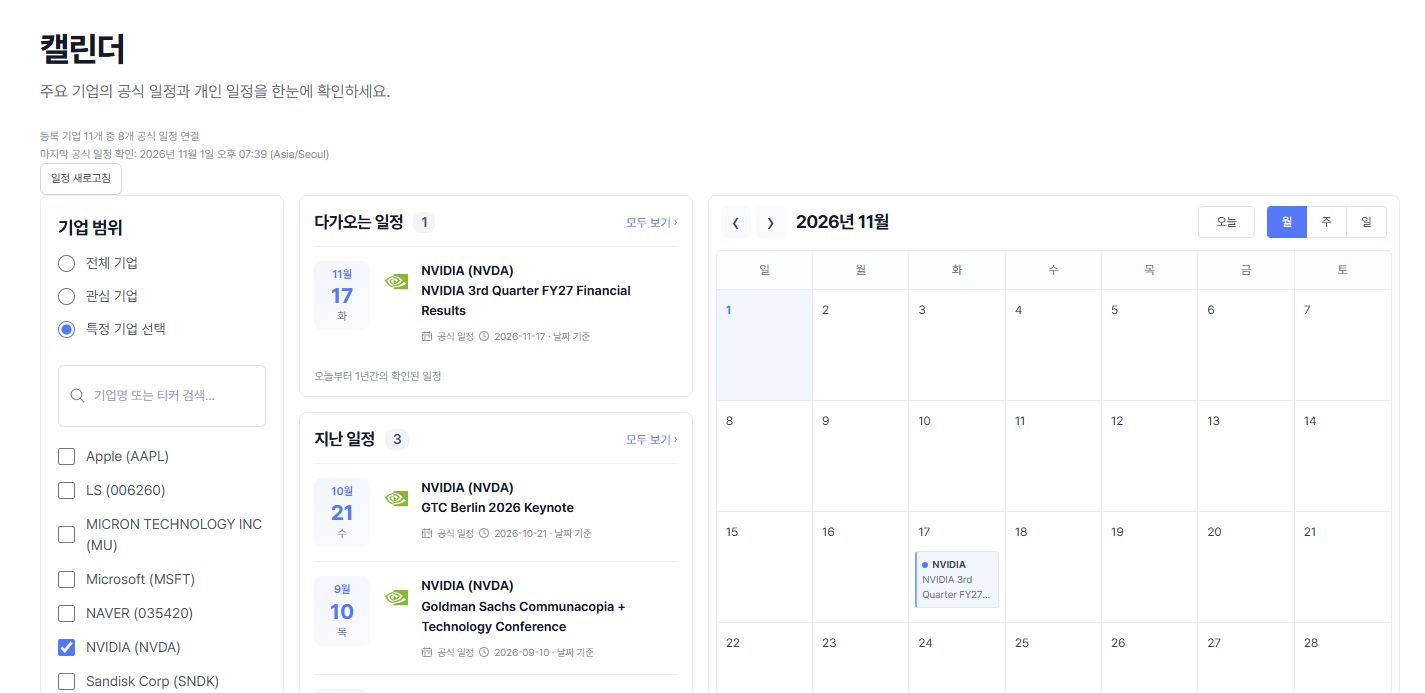
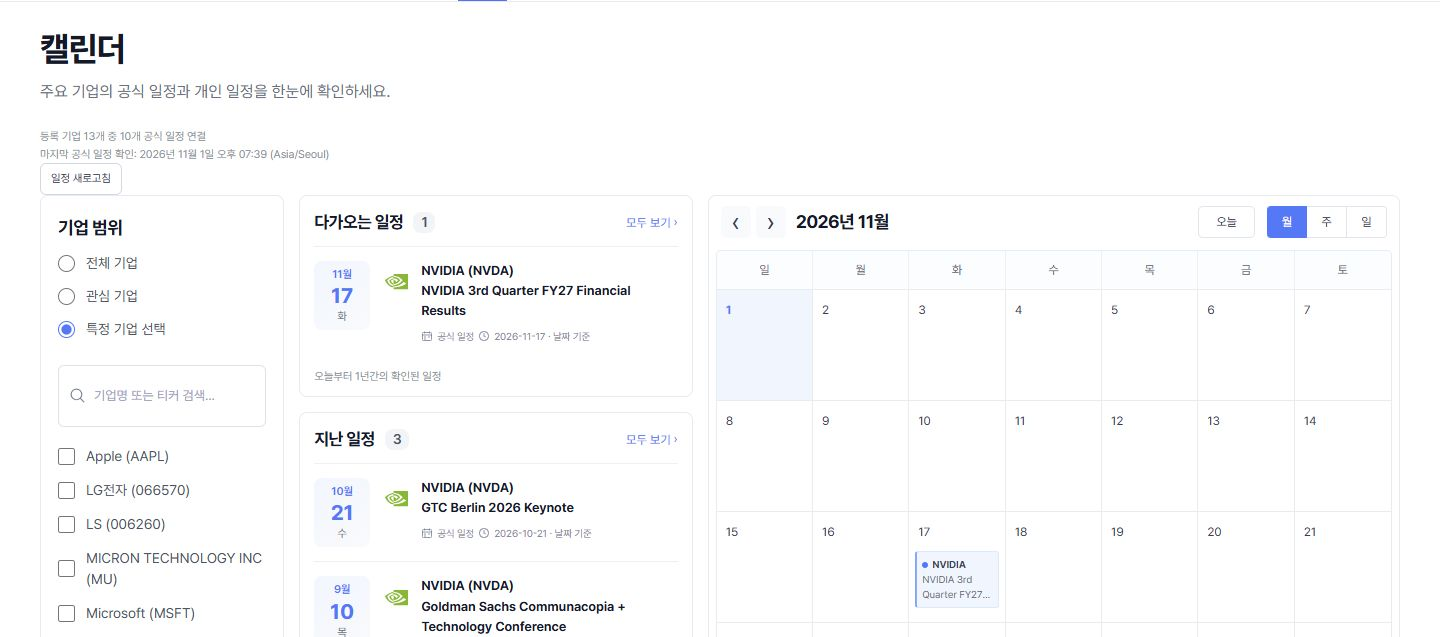
docs: record deployed calendar and Saved acceptance
Record the exact production release, four successful CI workflows, fresh 90-case browser run, automatic LG registration, correction provenance, Saved persistence and cleanup, and final live screenshots. Preserve explicit source coverage and operational limits. No application code changes.

diff --git a/docs/CALENDAR_AUTOMATION_AND_SAVED_2026-11-01.md b/docs/CALENDAR_AUTOMATION_AND_SAVED_2026-11-01.md
@@ -2,25 +2,36 @@
 
 ## Release state
 
-The web follow-up is live at **https://signalbrief.online** on commit
-`a28ca633990b2e6dcd3dbeb54b7080e0566ecdeb`. Vercel deployment
-`dpl_8iTtkirZK81iz1mrPci8vgHrUHVk` is **READY**. Its exact-commit CI and all
-90 browser scenarios passed. The earlier production baseline for the reproduced
-issues below was `85d3667a1bed15e71a534cf6161686d58419d7f5`.
+The final correction source is published as
+`1541494637d89b46e2b2c53b15186c0e51f3ec62`, tree
+`037126e89ec683718a0127bd181414a0f3d757f5`. All four required exact-source CI
+workflows completed successfully, and main was promoted from `a28ca633` to this
+commit. Vercel deployment `dpl_FxrMLugDeAVgk9s2rS5onQLt8Sd5` is **READY**, targets
+production, and serves **https://signalbrief.online**. Its metadata matches this
+commit and main. An independent public GET of
+https://signalbrief.online/api/release returned HTTP200 and the exact
+`1541494637d89b46e2b2c53b15186c0e51f3ec62` / `main` identity. Runtime promotion is
+complete. The preceding web release was `a28ca633990b2e6dcd3dbeb54b7080e0566ecdeb`;
+the earlier reproduction baseline below was
+`85d3667a1bed15e71a534cf6161686d58419d7f5`.
 
 The subsequent DART correction repair is active in **calendar Edge v4**, alongside
 **discovery Edge v6**. Migrations `20261101103903` (source onboarding) and
 `20261101111341` (correction lineage) are applied, and the collection worker is
-enabled. Actual Kakao and SK hynix correction collection has succeeded. At this
-reporting checkpoint the correction code is still uncommitted: its new exact
-source commit, CI and promotion are **PENDING**. They must not be confused with
-the already passed `a28ca633` web release gates.
+enabled. Actual Kakao and SK hynix correction collection has succeeded. Readiness
+and the production migration ledger have been verified. The queue checkpoint has
+seven idle sources and one failed source: Samsung, `no_confirmed_dates`, attempt3.
+That bounded source limitation is retained below; not every source is reported
+healthy.
 
 Final correction-phase local verification passed all eight stages: **660 backend
 tests, zero skips; 1,162 frontend tests in 97 files**. A fresh LG Electronics
 registration and its automatic collection acceptance also passed, and temporary
 Saved/follow test data has been removed. Production collection times below are
-stated in UTC.
+stated in UTC. The local full-gate artifact records completion at
+**2026-11-01 11:11:46.142039 UTC**. This report's final publication will be a
+documentation-only child of the source commit; a report commit is not represented
+as the deployed runtime commit.
 
 ## Reproduced production behavior
 
@@ -157,7 +168,21 @@ table and its save-cancel controls.
 | Independent correction SQL | 40 tests PASS | Real disposable PostgreSQL; stable IDs, source identity, archives, stale/forked/conflicting denial |
 | Combined calendar PostgreSQL after migration filename alignment | 116 tests PASS | Ledger-matching migration paths; no change to the applied SQL bytes |
 | Exact `a28ca633` CI and browser selection | PASS; 90/90 browser cases, 45 desktop and 45 mobile | Deployed web follow-up, before the later correction-source commit |
-| New correction source commit, its CI and promotion | PENDING | Not replaced by earlier CI results |
+| Exact `15414946` source CI and main promotion | PASS; all four required workflows terminal SUCCESS | Includes a new 90/90 browser run and 116-test calendar PostgreSQL job |
+| Vercel deployment for `15414946` | READY / production PASS | Production alias, metadata SHA/main and HTTP200 `/api/release` exact SHA/main independently verified |
+
+Exact final-source CI evidence:
+
+| Workflow | Run / job | Terminal result |
+|---|---|---|
+| Verification | [41302244390](https://github.com/JackRo682/SignalBrief/actions/runs/41302244390), web job [124835444392](https://github.com/JackRo682/SignalBrief/actions/runs/41302244390/job/124835444392) | SUCCESS; 90 browser cases passed in 4.9m; browser log timestamp 11:41:02.6922501 UTC, workflow completed 11:41:11 UTC |
+| Calendar | [41302244275](https://github.com/JackRo682/SignalBrief/actions/runs/41302244275), job [124835443991](https://github.com/JackRo682/SignalBrief/actions/runs/41302244275/job/124835443991) | SUCCESS; 116 passed, two warnings, 10.70s; log timestamp 11:32:09 UTC |
+| Collector | [41302244250](https://github.com/JackRo682/SignalBrief/actions/runs/41302244250) | SUCCESS |
+| Financial | [41302244287](https://github.com/JackRo682/SignalBrief/actions/runs/41302244287) | SUCCESS |
+
+The branch Production health run
+[41302276659](https://github.com/JackRo682/SignalBrief/actions/runs/41302276659)
+was skipped as expected. That skip is not counted as a successful required check.
 
 Earlier in this follow-up, the pre-correction full local gate passed 620 backend
 tests with zero skips and 1,143 frontend tests in 97 files; its six Deno entrypoints
@@ -227,15 +252,21 @@ empty account already owned saved items. The temporary NVIDIA follow was also
 removed: its company button returned to **팔로우**, and the original Following
 scope was restored to **1 upcoming / 4 past**.
 
+After cleanup, the actual empty Saved archive displayed **three real public
+analyses and three real public documents** in the separate discovery panel. These
+are suggestions with explicit Save actions, not pre-populated personal bookmarks.
+The final empty-archive screenshot records that usable first-save state.
+
 Screenshots captured by the production acceptance run:
 
 | File | SHA-256 |
 |---|---|
[5 lines of base64/hex data omitted]
 
-## Source coverage and remaining release work
+## Source coverage and operational limitations
 
 Reviewed US feeds are Microsoft, Micron and NVIDIA. **Apple, Tesla and SNDK do not
 have configured calendar feeds** in this release; their uncovered state is explicit.
@@ -262,9 +293,26 @@ was introduced. Existing findings remain: security INFO `no-policy`27, WARN
 `FK`32 / `unused-index`20 and WARN `multiple-permissive`16. This comparison does
 not claim a clean security report or resolution of those pre-existing findings.
 
-The **new correction-source commit, exact-commit CI and promotion remain PENDING**
-at this checkpoint. Fresh-company acceptance, screenshot evidence and test-data
-cleanup are complete.
+Relevant remediation references are Supabase's
+[database advisor guide](https://supabase.com/docs/guides/database/database-linter)
+and [password-strength and leaked-password protection guide](https://supabase.com/docs/guides/auth/password-security#password-strength-and-leaked-password-protection).
+They are follow-up references, not a claim that policies, permissions, indexes or
+password-protection settings were changed by this release.
+
+The source commit, exact-source CI, main promotion, Vercel READY and production
+release response are verified. Fresh-company acceptance and test-data cleanup are
+complete. A fresh Calendar navigation after the final production release again
+showed All **4 upcoming / 27 past**, then Selected NVIDIA **1 upcoming / 3 past**
+and its Nov17 month-grid entry, with coverage **13 registered / 10 connected**.
+The NVIDIA screenshot above was replaced with that final-deployment capture. The
+final report publication is a documentation-only child of `15414946`; it does not
+change the deployed runtime identity.
+
+The release owner also queried error/fatal runtime logs for
+`dpl_FxrMLugDeAVgk9s2rS5onQLt8Sd5` over
+**2026-11-01 11:27:53.523–11:42:53.523 UTC** and received no matching records.
+This is a bounded observation of a newly created deployment, not a claim that no
+error can occur or that unrelated deployments and earlier periods were checked.
 
 ## Interpretation
 

diff --git a/docs/IMPLEMENTATION_STATUS.md b/docs/IMPLEMENTATION_STATUS.md
@@ -1,4 +1,4 @@
-> **2026-11-01 calendar and Saved follow-up — web live, correction backend verified; new source CI/promotion pending:** Production https://signalbrief.online serves `a28ca633990b2e6dcd3dbeb54b7080e0566ecdeb` on Vercel `dpl_8iTtkirZK81iz1mrPci8vgHrUHVk` (READY); its exact CI and 90 desktop/mobile browser cases passed. Calendar Edge v4, discovery v6, migrations `20261101103903` and `20261101111341`, and the worker are active. The final correction-phase local gate passed all eight stages with 660 backend tests (zero skips) and 1,162 frontend tests in 97 files; parser 58, independent correction SQL 40 and combined calendar PostgreSQL 116 passed. Live NVIDIA, Kakao/SK correction ingestion, fresh LG Electronics registration with automatic collection, and the three-type Saved save/reload/filter/remove flow passed; test bookmarks and the temporary NVIDIA follow were removed, with history OFF preserved. The correction source is not yet committed/promoted through its own exact CI at this checkpoint. Samsung and unsupported-feed limitations remain explicit. See the [current follow-up report](CALENDAR_AUTOMATION_AND_SAVED_2026-11-01.md); older entries below retain their historical status.
+> **2026-11-01 calendar and Saved closeout — final runtime deployed and verified:** Production https://signalbrief.online serves `1541494637d89b46e2b2c53b15186c0e51f3ec62` / main (source tree `037126e89ec683718a0127bd181414a0f3d757f5`); Vercel `dpl_FxrMLugDeAVgk9s2rS5onQLt8Sd5` is READY and the public `/api/release` returned HTTP200 with that exact identity. All four required exact-source CI workflows completed SUCCESS, including 90 desktop/mobile browser cases and 116 calendar PostgreSQL cases. Calendar Edge v4/discovery v6, both ledger-aligned migrations and worker readiness are active. The final local gate passed all eight stages at 11:11:46.142039 UTC with 660 backend tests (zero skips) and 1,162 frontend tests in 97 files. Fresh final-production navigation reconfirmed All 4 upcoming / 27 past and NVIDIA 1 / 3 with its Nov17 grid entry. Actual NVIDIA/Kakao/SK/LG collection and Saved persistence/filter/cleanup passed; the cleaned empty archive shows real first-save suggestions, with history OFF. Samsung remains the one failed queue source and existing advisor findings remain explicit. The final report publication is a documentation-only child, not another deployed runtime. See the [follow-up report](CALENDAR_AUTOMATION_AND_SAVED_2026-11-01.md); historical entries below are retained.
 
 > **2026-11-01 최종 운영 기능 보완:** 검색·기업 소개·Micron 공식 일정 수집·저장 흐름과 추가 실화면 회귀를 수정해 `85d3667a1bed15e71a534cf6161686d58419d7f5`를 운영 배포했다. Vercel `dpl_5GwC4oZFMor1g7Wxuzq1CArKQMLT`는 READY이며 운영 `/api/release`가 같은 커밋과 main을 반환한다. 최종 frontend 1,054건·94개 파일, TypeScript·lint·build, 로컬 및 정확한 커밋 CI의 desktop/mobile 84건이 통과했다. 변경 없는 backend의 전체 실제 PostgreSQL 검증은 571건·건너뜀 0건이다. 운영에서 LS 추가·새로고침, NAVER/LS/Micron 소개, SNDK 일반 공식 소개, Micron 과거 일정 3건, 저장 4개 왕복·필터·해제, 상세 회사 요약, 개인 기업 검색 Enter 방어를 확인했다. **검색 결과의 상세→뒤로→새로고침 최종 운영 단계는 Cold Turkey 차단으로 제한되며, 해당 자동 회귀는 통과했다.** 자료 지원 범위와 증거는 [최종 보고서](CROSS_SCREEN_RELIABILITY_2026-11-01.md)와 [구조화된 결과](../verification/cross-screen-2026-11-01.json)에 명시한다.
 >

diff --git a/docs/VERIFICATION.md b/docs/VERIFICATION.md
@@ -1,4 +1,4 @@
-> **2026-11-01 calendar and Saved follow-up — web live, correction backend verified; new source CI/promotion pending:** Production https://signalbrief.online serves `a28ca633990b2e6dcd3dbeb54b7080e0566ecdeb` on Vercel `dpl_8iTtkirZK81iz1mrPci8vgHrUHVk` (READY); its exact CI and 90 desktop/mobile browser cases passed. Calendar Edge v4, discovery v6, migrations `20261101103903` and `20261101111341`, and the worker are active. The final correction-phase local gate passed all eight stages with 660 backend tests (zero skips) and 1,162 frontend tests in 97 files; parser 58, independent correction SQL 40 and combined calendar PostgreSQL 116 passed. Live NVIDIA, Kakao/SK correction ingestion, fresh LG Electronics registration with automatic collection, and the three-type Saved save/reload/filter/remove flow passed; test bookmarks and the temporary NVIDIA follow were removed, with history OFF preserved. The correction source is not yet committed/promoted through its own exact CI at this checkpoint. Samsung and unsupported-feed limitations remain explicit. See the [current follow-up report](CALENDAR_AUTOMATION_AND_SAVED_2026-11-01.md); older entries below retain their historical status.
+> **2026-11-01 calendar and Saved closeout — final runtime deployed and verified:** Production https://signalbrief.online serves `1541494637d89b46e2b2c53b15186c0e51f3ec62` / main (source tree `037126e89ec683718a0127bd181414a0f3d757f5`); Vercel `dpl_FxrMLugDeAVgk9s2rS5onQLt8Sd5` is READY and the public `/api/release` returned HTTP200 with that exact identity. All four required exact-source CI workflows completed SUCCESS, including 90 desktop/mobile browser cases and 116 calendar PostgreSQL cases. Calendar Edge v4/discovery v6, both ledger-aligned migrations and worker readiness are active. The final local gate passed all eight stages at 11:11:46.142039 UTC with 660 backend tests (zero skips) and 1,162 frontend tests in 97 files. Fresh final-production navigation reconfirmed All 4 upcoming / 27 past and NVIDIA 1 / 3 with its Nov17 grid entry. Actual NVIDIA/Kakao/SK/LG collection and Saved persistence/filter/cleanup passed; the cleaned empty archive shows real first-save suggestions, with history OFF. Samsung remains the one failed queue source and existing advisor findings remain explicit. The final report publication is a documentation-only child, not another deployed runtime. See the [follow-up report](CALENDAR_AUTOMATION_AND_SAVED_2026-11-01.md); historical entries below are retained.
 
 > **2026-11-01 최종 운영 기능 보완:** 검색·기업 소개·Micron 공식 일정 수집·저장 흐름과 추가 실화면 회귀를 수정해 `85d3667a1bed15e71a534cf6161686d58419d7f5`를 운영 배포했다. Vercel `dpl_5GwC4oZFMor1g7Wxuzq1CArKQMLT`는 READY이며 운영 `/api/release`가 같은 커밋과 main을 반환한다. 최종 frontend 1,054건·94개 파일, TypeScript·lint·build, 로컬 및 정확한 커밋 CI의 desktop/mobile 84건이 통과했다. 변경 없는 backend의 전체 실제 PostgreSQL 검증은 571건·건너뜀 0건이다. 운영에서 LS 추가·새로고침, NAVER/LS/Micron 소개, SNDK 일반 공식 소개, Micron 과거 일정 3건, 저장 4개 왕복·필터·해제, 상세 회사 요약, 개인 기업 검색 Enter 방어를 확인했다. **검색 결과의 상세→뒤로→새로고침 최종 운영 단계는 Cold Turkey 차단으로 제한되며, 해당 자동 회귀는 통과했다.** 자료 지원 범위와 증거는 [최종 보고서](CROSS_SCREEN_RELIABILITY_2026-11-01.md)와 [구조화된 결과](../verification/cross-screen-2026-11-01.json)에 명시한다.
 >
